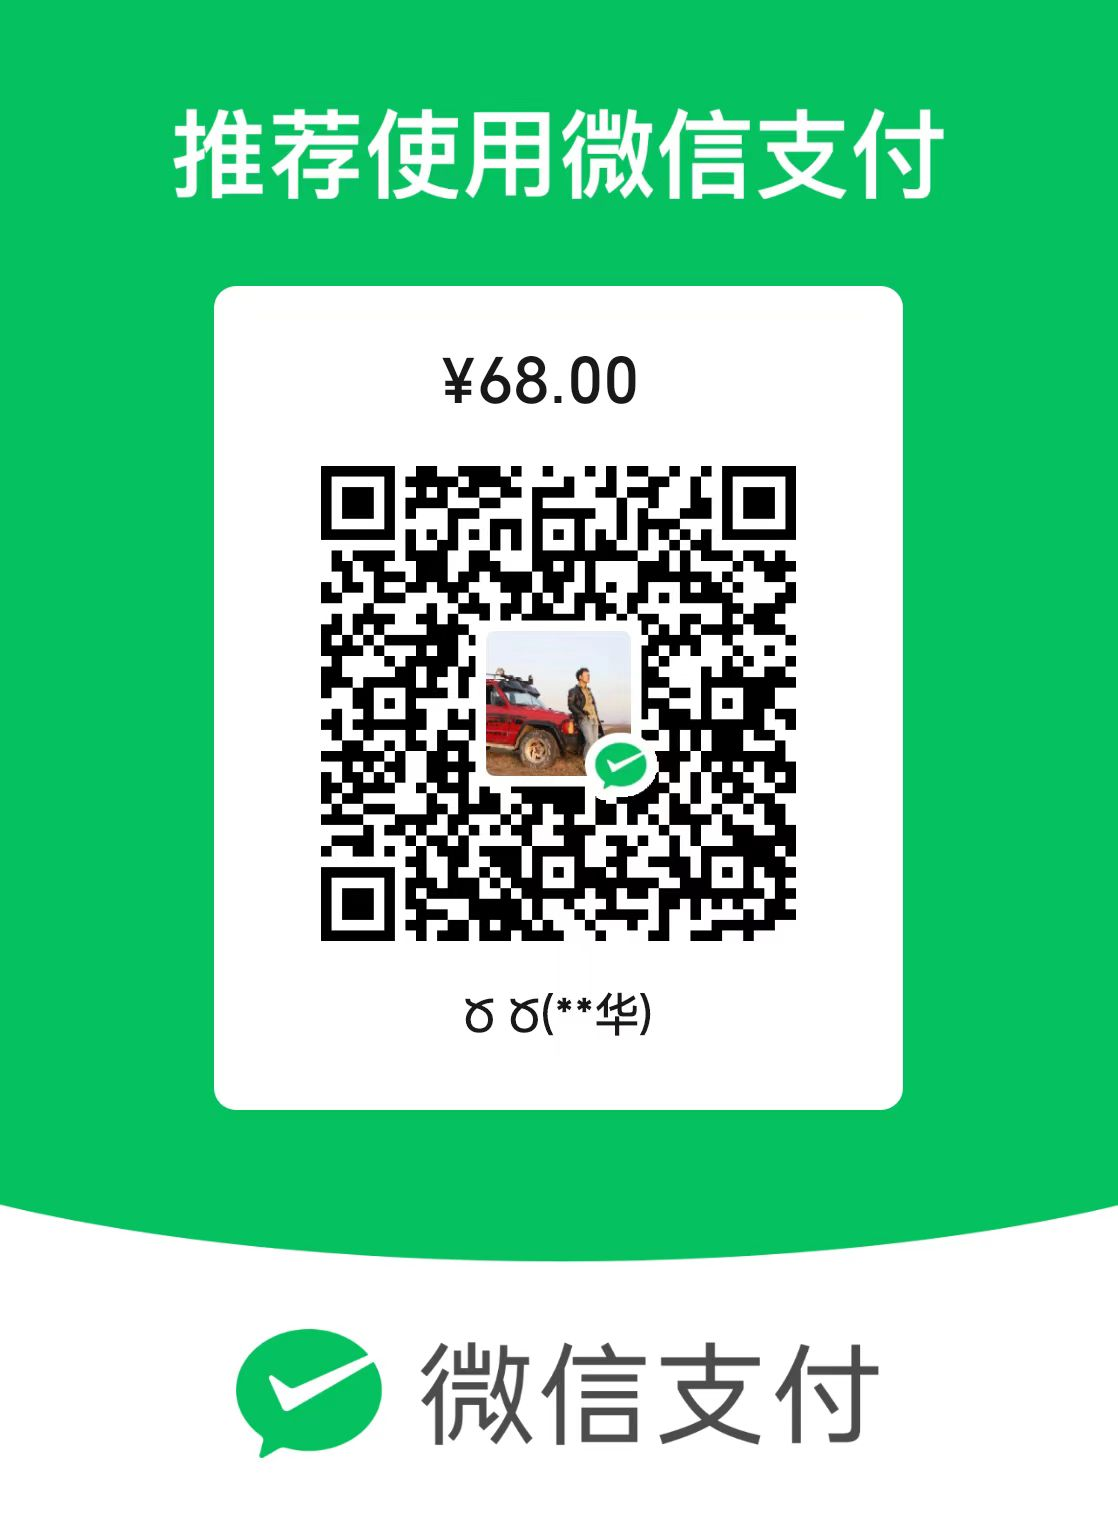
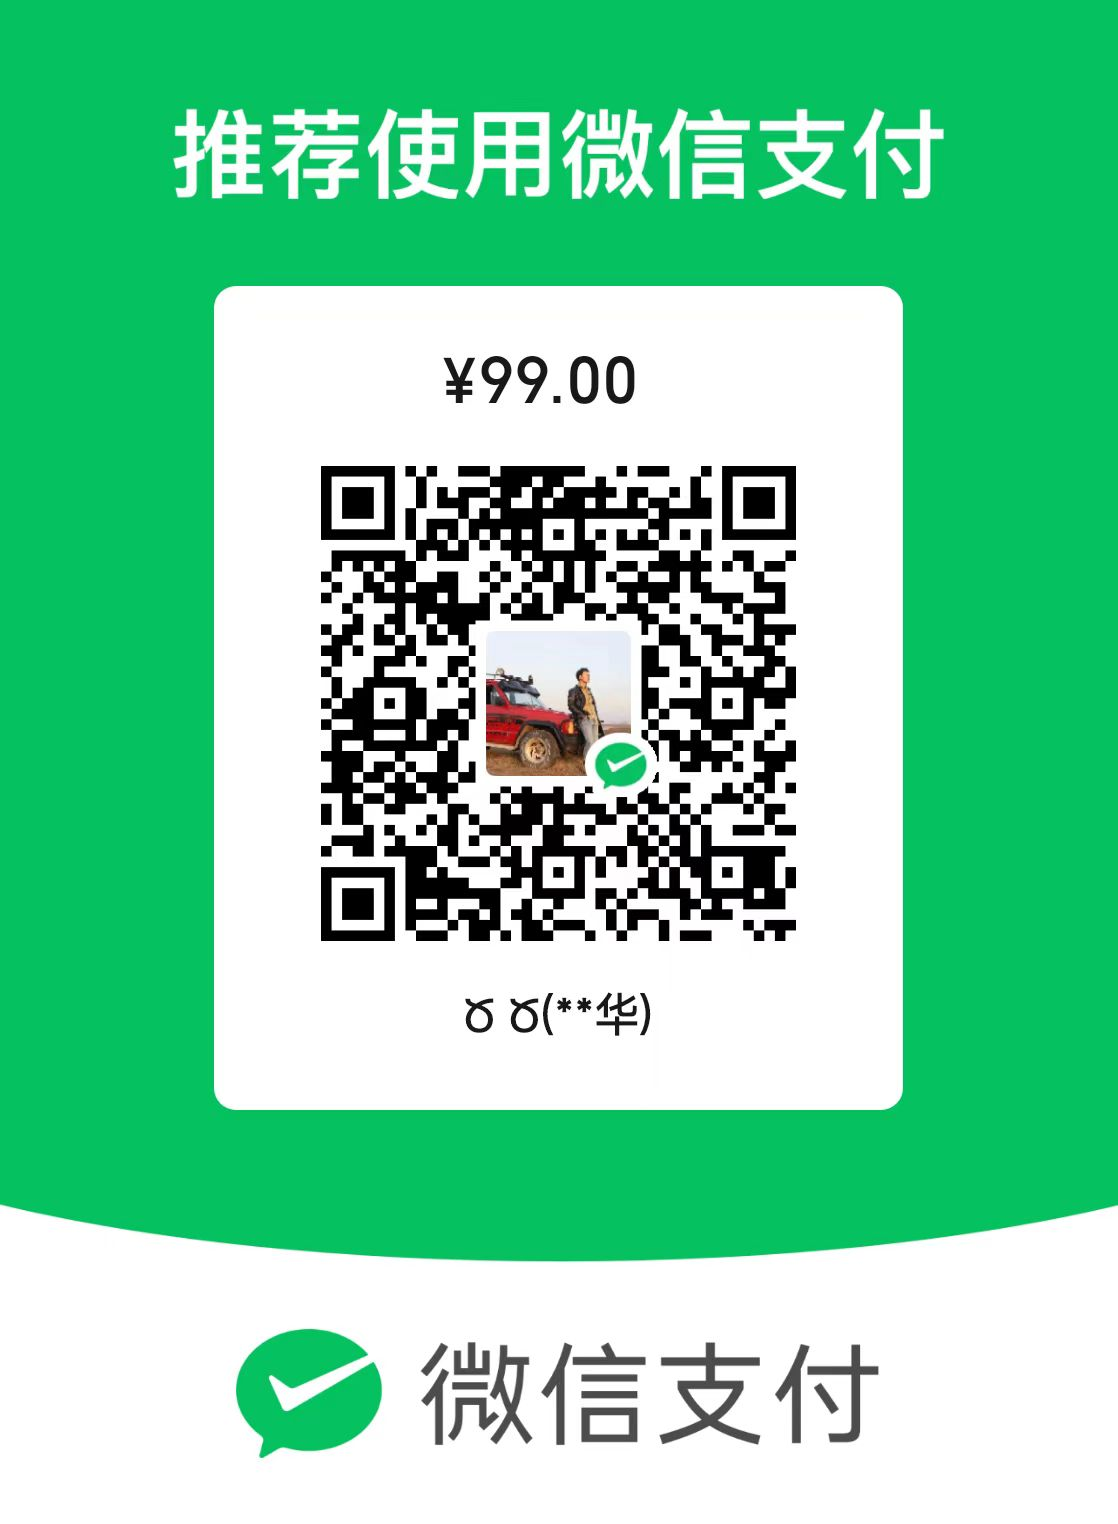
[update] 更新加入群聊

Changed region(s): [[0.2737, 0.3084, 0.7299, 0.6168], [0.4258, 0.2159, 0.4866, 0.2776], [0.517, 0.2467, 0.5474, 0.2776]]

diff --git a/src/common/joingroup.md b/src/common/joingroup.md
@@ -16,7 +16,7 @@
 > 一个人接触的问题有限 一群人接触的问题无限 早进群早接触更多的问题  
 > 承诺: 看见必回复 让你感受作者有多话痨  
 
-**加群扫码(10月1号前68元，后面涨价99)**  
+**加群扫码:99元**  
 <table>
     <tr>
         <td><img src="../.vuepress/public/skwx.jpg"/></td>
